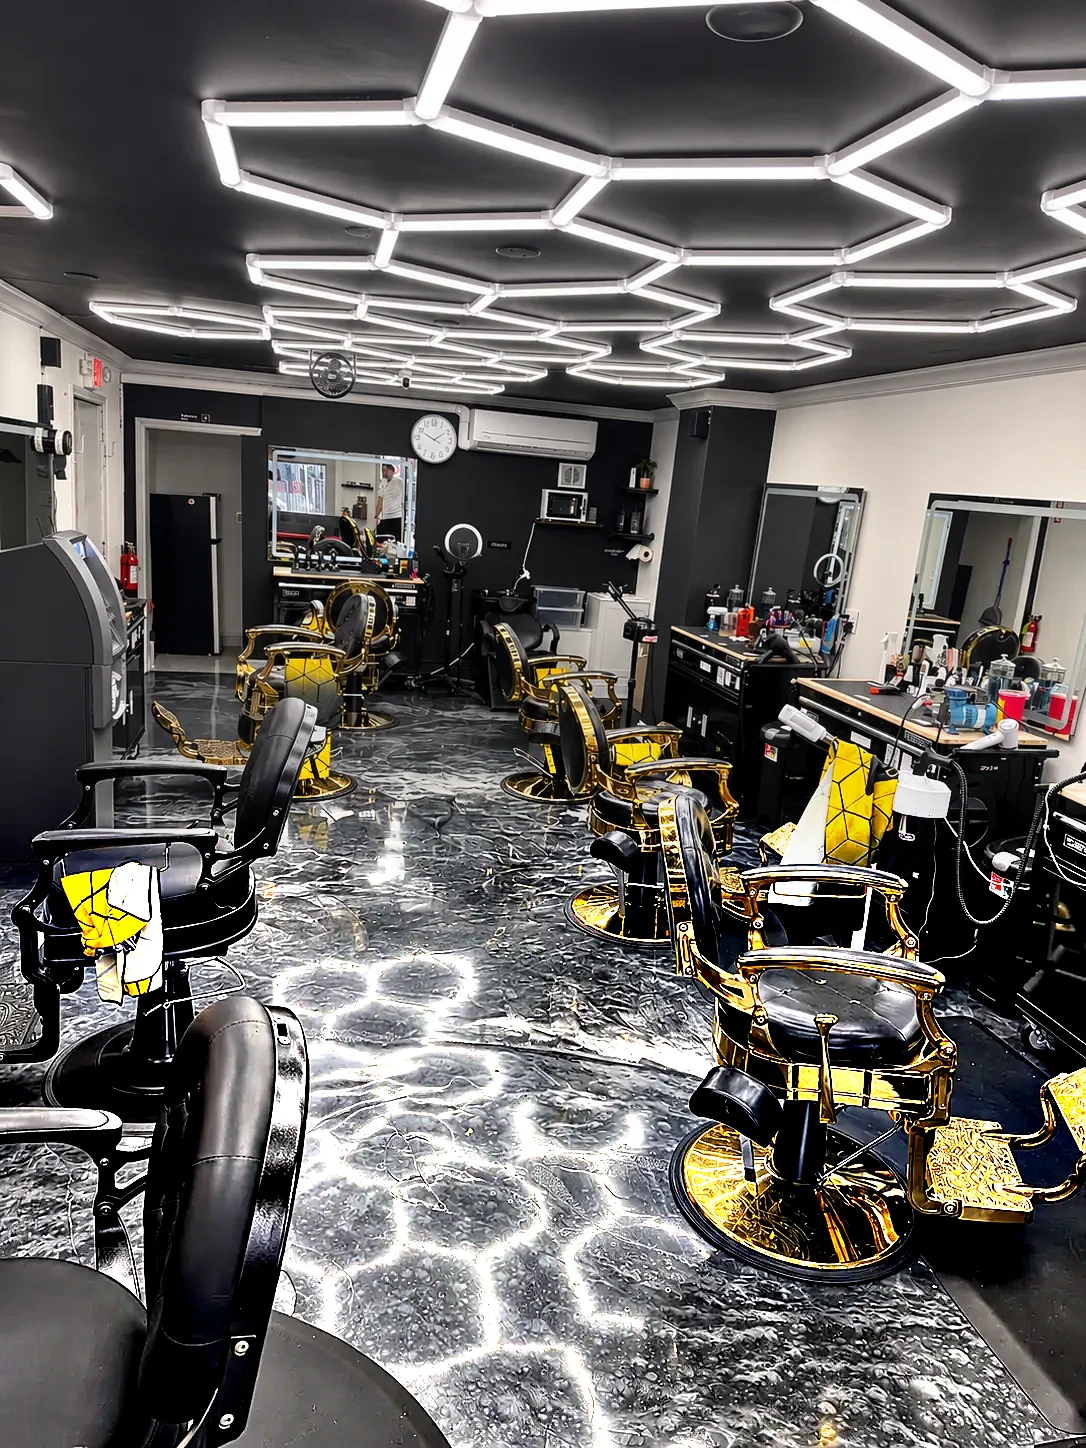
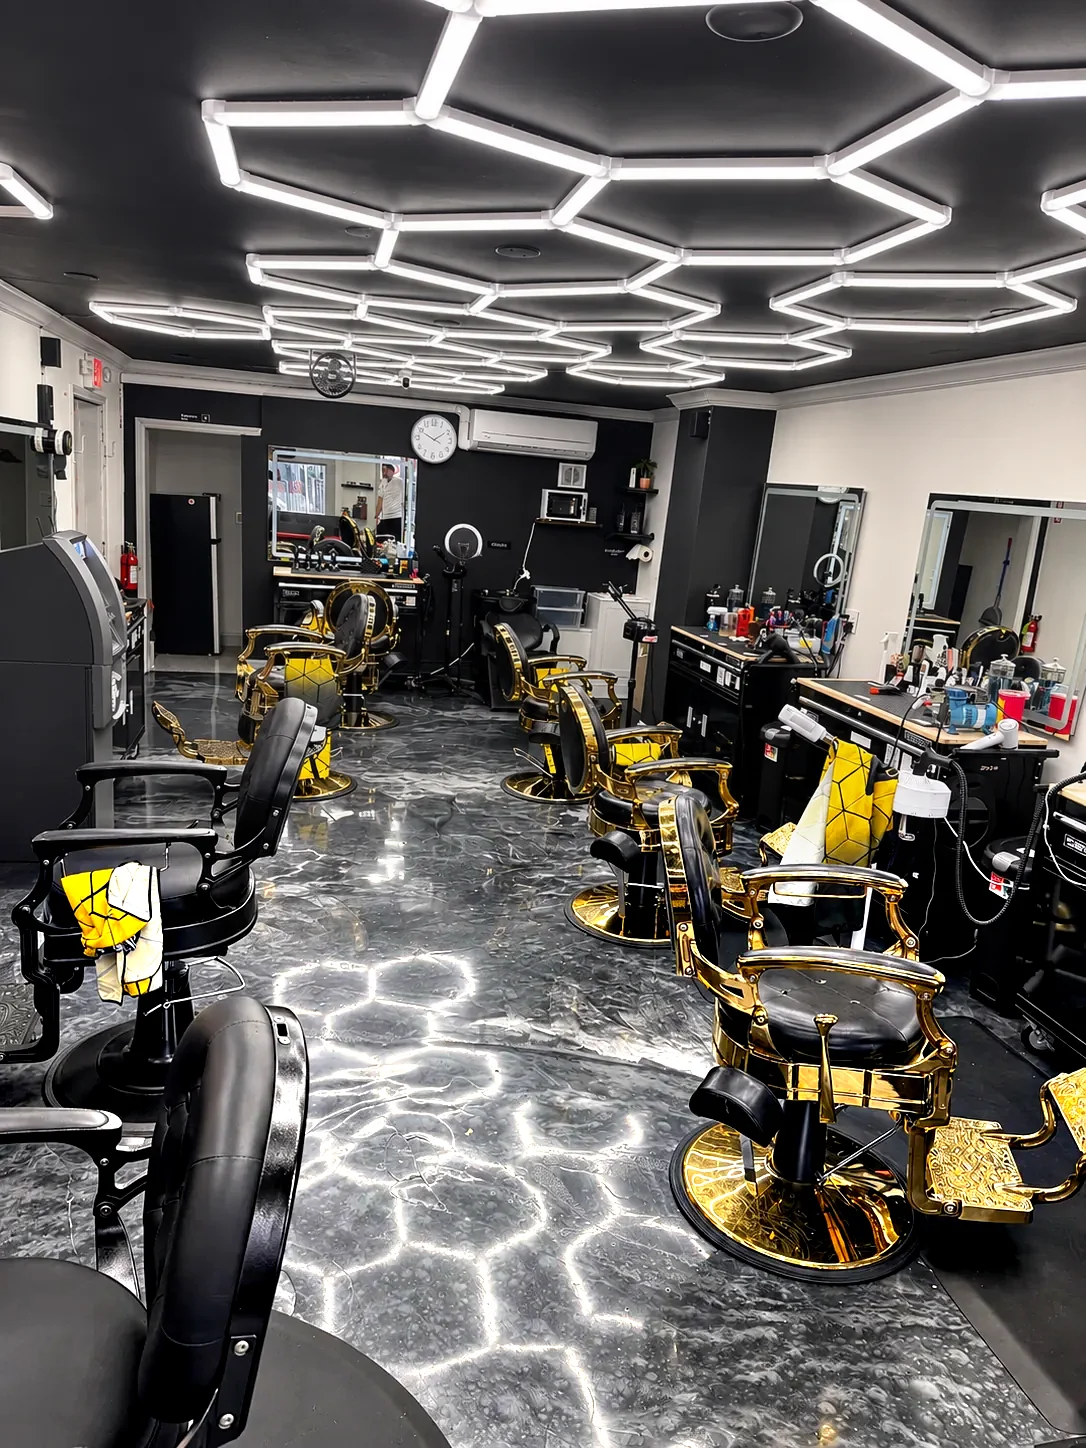
Preview: softer floor enhancement; glowing square back on the door
- Floor: gentler clarity/contrast, no extra fine sharpening
- Door: restore the pulsing gold outline and focus ring

Claude-Session: https://claude.ai/code/session_01MXdPPVCrCnhk42nu3wu8wX

Changed region(s): [[0.0, 0.5283, 1.0, 1.0], [0.942, 0.5594, 1.0, 0.6526], [0.9116, 0.5905, 0.942, 0.6215]]

diff --git a/preview/entrance.css b/preview/entrance.css
@@ -80,10 +80,16 @@
   cursor: pointer;
   border-radius: 4px;
 }
-/* No lines on the door (Jean's request). The "Tap the door" hint carries the invitation;
-   keyboard users still get a soft, non-yellow light on the glass when the door has focus. */
-.door-hotspot:focus { outline: none; }
-.door-hotspot:focus-visible { background: rgb(255 255 255 / .06); }
+.door-hotspot::after {
+  content: "";
+  position: absolute;
+  inset: 6% 9%;
+  border-radius: 3px;
+  box-shadow: 0 0 0 2px rgb(242 208 138 / .0), 0 0 28px 6px rgb(242 208 138 / .0);
+}
+.door-hotspot:hover::after,
+.door-hotspot:focus-visible::after { box-shadow: 0 0 0 2px rgb(242 208 138 / .9), 0 0 36px 10px rgb(242 208 138 / .45); }
+.door-hotspot:focus-visible { outline: 3px solid var(--focus); outline-offset: 4px; }
 
 .entrance-hint {
   position: absolute;
@@ -125,13 +131,19 @@
 .entrance-skip:focus-visible { outline: 3px solid var(--focus); outline-offset: 3px; }
 
 @media (prefers-reduced-motion: no-preference) {
+  .door-hotspot::after { animation: door-glow 2.4s ease-in-out infinite; }
   .entrance-hint span { animation: hint-bob 2.4s ease-in-out infinite; }
   .storefront { animation: arrive 1.2s cubic-bezier(.2, .7, .2, 1) backwards; }
+}
+@keyframes door-glow {
+  0%, 100% { box-shadow: 0 0 0 2px rgb(242 208 138 / .15), 0 0 20px 4px rgb(242 208 138 / .1); }
+  50% { box-shadow: 0 0 0 2px rgb(242 208 138 / .7), 0 0 34px 10px rgb(242 208 138 / .35); }
 }
 @keyframes hint-bob { 50% { translate: 0 -4px; } }
 @keyframes arrive { from { scale: 1.06; filter: brightness(.6); } }
 
 /* Opening sequence, driven by classes from entrance.js */
+.entrance.is-opening .door-hotspot::after,
 .entrance.is-opening .entrance-hint span { animation: none; opacity: 0; }
 .entrance.is-opening .door-hotspot { outline: none; cursor: default; }
 .entrance.is-opening .entrance-hint,
